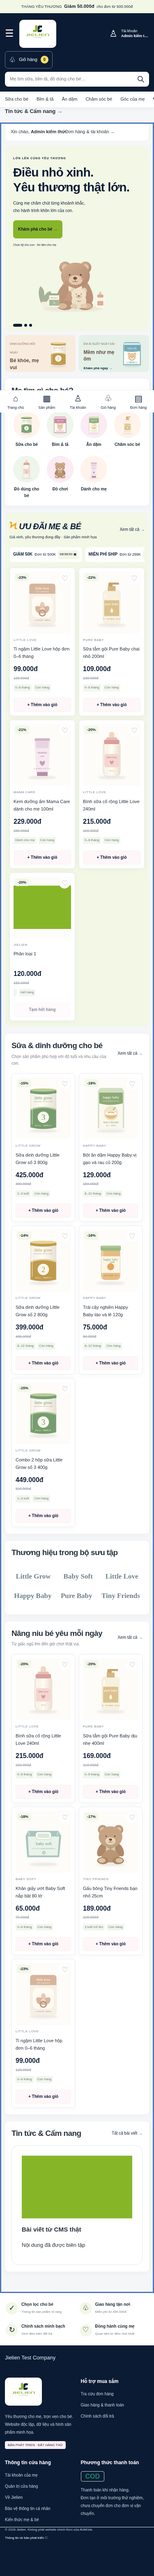
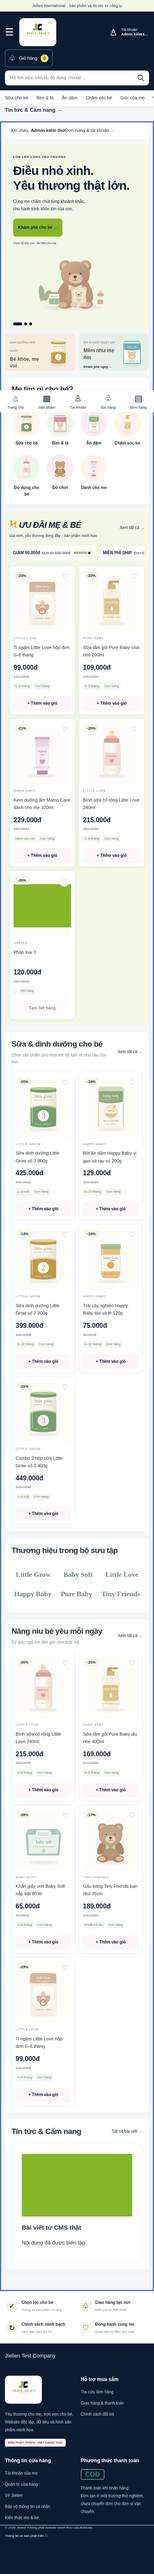
fix: source storefront promotions from active PostgreSQL coupons

diff --git a/public/app.js b/public/app.js
@@ -194,6 +194,12 @@ function heroMarkup() {
   const h = heroes[heroIndex];
   return `<div class="hero" style="background:${h.background}"><div class="hero-content"><div class="eyebrow">${h.eyebrow}</div><h1>${h.title}</h1><p>${h.text}</p><a href="${escape(h.link)}" data-link class="primary">Khám phá cho bé →</a><div class="hero-note">Chọn kỹ cho con · An tâm cho mẹ</div></div><div class="hero-art"><img src="${h.image}" alt="Minh họa sản phẩm và thế giới của bé"></div><div class="banner-controls" aria-label="Chọn banner">${heroes.map((_, i) => `<button class="${i === heroIndex ? "active" : ""}" data-hero="${i}" aria-label="Banner ${i + 1}" aria-pressed="${i === heroIndex}"></button>`).join("")}</div></div>`;
 }
+function couponMarkup() {
+  const coupons = siteData.coupons || [];
+  return coupons.length
+    ? `<div class="coupon-strip">${coupons.map((c) => `<div class="coupon"><b>${c.discount_type === "shipping" ? "MIỄN PHÍ SHIP" : c.discount_type === "percentage" ? "GIẢM " + c.discount_value + "%" : "GIẢM " + money(Math.min(c.discount_value, c.maximum_discount ?? c.discount_value))}</b><span>${c.minimum_order ? "Đơn từ " + money(c.minimum_order) : "Theo điều kiện máy chủ"}</span><button data-copy="${escape(c.code)}">${escape(c.code)} ▣</button></div>`).join("")}</div>`
+    : "";
+}
 function home() {
   document.title = "Jielien International — Sản phẩm & Tin tức";
   const sale = [...products]
@@ -216,7 +222,7 @@ function home() {
       )
       .join("")}</div>
     <section class="panel"><div class="section-heading"><div><h2>Mẹ tìm gì cho bé?</h2><p>Đủ đầy những điều bé cần, từ những ngày đầu tiên.</p></div></div><div class="category-tiles">${categories.map(([name, img]) => `<a class="category-tile" href="${escape(href({ category: name }))}" data-link><span><img src="/assets/${img}.svg" alt=""></span>${name}</a>`).join("")}</div></section>
-    <section class="flash-sale"><div class="section-heading"><div><h2><span>ϟ</span> Ưu đãi mẹ & bé</h2><div class="sale-note">Giá xinh, yêu thương đong đầy · Sản phẩm minh họa</div></div><a href="/san-pham?sort=discount" data-link>Xem tất cả →</a></div><div class="coupon-strip"><div class="coupon"><b>GIẢM 50K</b><span>Đơn từ 500K</span><button data-copy="MEBE50">MEBE50 ▣</button></div><div class="coupon"><b>MIỄN PHÍ SHIP</b><span>Đơn từ 299K</span><button data-copy="FREESHIP">FREESHIP ▣</button></div></div>${productGrid(sale)}</section>
+    <section class="flash-sale"><div class="section-heading"><div><h2><span>ϟ</span> Ưu đãi mẹ & bé</h2><div class="sale-note">Giá xinh, yêu thương đong đầy · Sản phẩm minh họa</div></div><a href="/san-pham?sort=discount" data-link>Xem tất cả →</a></div>${couponMarkup()}${productGrid(sale)}</section>
     ${section("Sữa & dinh dưỡng cho bé", "Chọn sản phẩm phù hợp với độ tuổi và nhu cầu của con.", products.filter((p) => p.category === "Sữa cho bé" || p.category === "Ăn dặm").slice(0, 5), href({ category: "Sữa cho bé" }))}
     <section class="panel"><div class="section-heading"><h2>Thương hiệu trong bộ sưu tập</h2></div><div class="brand-row">${[
       ...new Set(products.map((p) => p.brand)),
@@ -303,7 +309,7 @@ function details(slug) {
   const variants = products.filter(
     (item) => item.productId === p.productId && item.id !== p.id,
   );
-  return `${breadcrumbs([[p.category, href({ category: p.category })], [p.name]])}<section class="panel detail-top"><div><div class="gallery-main"><span class="product-discount">-${Math.round((1 - p.price / p.oldPrice) * 100)}%</span><img id="detail-image" src="${escape(p.image)}" alt="${escape(p.name)} — hình sản phẩm minh họa"></div><div class="gallery-thumbs">${(p.gallery?.length ? p.gallery : [{ url: p.image, alt: p.name }]).map((m, i) => `<button data-gallery="${escape(m.url)}" data-alt="${escape(m.alt || p.name)}" aria-label="Ảnh sản phẩm ${i + 1}"><img src="${escape(m.url)}" alt="${escape(m.alt || p.name)}"></button>`).join("")}</div><p class="detail-label">Kiểm tra quy cách và thông tin sản phẩm trước khi đặt hàng.</p></div><div class="detail-info"><div class="product-brand">${escape(p.brand)}</div><h1>${escape(p.name)}</h1><div class="detail-meta"><span>Mã SKU: ${escape(p.sku || String(p.id))}</span><span class="in-stock">${p.stock ? `✓ Còn ${p.stock} sản phẩm` : "Tạm hết hàng"}</span></div><div class="detail-pricing"><strong>${money(p.price)}</strong><del>${money(p.oldPrice)}</del><small>Giá theo phân loại SKU. Tổng thanh toán được máy chủ xác nhận.</small></div><ul class="features">${p.features.map((f) => `<li>${escape(f)}</li>`).join("")}</ul><div class="variant-label">Lựa chọn đang xem: <b>${escape(p.weight)}</b></div><div class="variants"><a class="active" href="${productLink(p)}" data-link>${escape(p.weight)}</a>${variants.map((v) => `<a href="${productLink(v)}" data-link>${escape(v.name.replace(v.brand, ""))}</a>`).join("")}</div><div class="variant-label">Số lượng</div>${quantityControl(p.id, 1, true)}<div class="buy-row"><button class="secondary" data-detail-add="${p.id}" ${!p.stock ? "disabled" : ""}>+ Thêm vào giỏ</button><button class="primary" data-buy="${p.id}" ${!p.stock ? "disabled" : ""}>Mua ngay →</button></div><div class="delivery-note">♧ Miễn phí giao hàng từ 499.000đ. Phí tiêu chuẩn 25.000đ.</div><div class="delivery-note">♢ Mã <b>MEBE50</b>: giảm 50.000đ cho đơn từ 500.000đ.</div></div></section>
+  return `${breadcrumbs([[p.category, href({ category: p.category })], [p.name]])}<section class="panel detail-top"><div><div class="gallery-main"><span class="product-discount">-${Math.round((1 - p.price / p.oldPrice) * 100)}%</span><img id="detail-image" src="${escape(p.image)}" alt="${escape(p.name)} — hình sản phẩm minh họa"></div><div class="gallery-thumbs">${(p.gallery?.length ? p.gallery : [{ url: p.image, alt: p.name }]).map((m, i) => `<button data-gallery="${escape(m.url)}" data-alt="${escape(m.alt || p.name)}" aria-label="Ảnh sản phẩm ${i + 1}"><img src="${escape(m.url)}" alt="${escape(m.alt || p.name)}"></button>`).join("")}</div><p class="detail-label">Kiểm tra quy cách và thông tin sản phẩm trước khi đặt hàng.</p></div><div class="detail-info"><div class="product-brand">${escape(p.brand)}</div><h1>${escape(p.name)}</h1><div class="detail-meta"><span>Mã SKU: ${escape(p.sku || String(p.id))}</span><span class="in-stock">${p.stock ? `✓ Còn ${p.stock} sản phẩm` : "Tạm hết hàng"}</span></div><div class="detail-pricing"><strong>${money(p.price)}</strong><del>${money(p.oldPrice)}</del><small>Giá theo phân loại SKU. Tổng thanh toán được máy chủ xác nhận.</small></div><ul class="features">${p.features.map((f) => `<li>${escape(f)}</li>`).join("")}</ul><div class="variant-label">Lựa chọn đang xem: <b>${escape(p.weight)}</b></div><div class="variants"><a class="active" href="${productLink(p)}" data-link>${escape(p.weight)}</a>${variants.map((v) => `<a href="${productLink(v)}" data-link>${escape(v.name.replace(v.brand, ""))}</a>`).join("")}</div><div class="variant-label">Số lượng</div>${quantityControl(p.id, 1, true)}<div class="buy-row"><button class="secondary" data-detail-add="${p.id}" ${!p.stock ? "disabled" : ""}>+ Thêm vào giỏ</button><button class="primary" data-buy="${p.id}" ${!p.stock ? "disabled" : ""}>Mua ngay →</button></div><div class="delivery-note">♧ Miễn phí giao hàng từ 499.000đ. Phí tiêu chuẩn 25.000đ.</div><div class="delivery-note">♢ Ưu đãi được máy chủ kiểm tra khi đặt hàng.</div></div></section>
   <section class="panel"><div class="tabs" role="tablist" aria-label="Thông tin sản phẩm"><button class="active" role="tab" id="tab-description" aria-selected="true" aria-controls="detail-tab-content" data-tab="description">Mô tả sản phẩm</button><button role="tab" id="tab-specs" aria-selected="false" aria-controls="detail-tab-content" data-tab="specs">Thông số</button><button role="tab" id="tab-notes" aria-selected="false" aria-controls="detail-tab-content" data-tab="notes">Lưu ý sử dụng</button></div><div class="tab-content" id="detail-tab-content" role="tabpanel" aria-labelledby="tab-description" data-product="${p.id}">${detailTab(p, "description")}</div></section>
   ${section(
     "Mẹ có thể quan tâm",

diff --git a/public/index.html b/public/index.html
@@ -15,10 +15,7 @@
   </head>
   <body>
     <a class="skip-link" href="#main">Đi đến nội dung</a>
-    <div class="top-promo">
-      THÁNG YÊU THƯƠNG <strong>Giảm 50.000đ</strong> cho đơn từ 500.000đ
-      <span>• Mã: MEBE50</span><a href="/san-pham" data-link>Mua ngay →</a>
-    </div>
+    <div class="top-promo">Jielien International · Sản phẩm và tin tức từ công ty</div>
     <header class="site-header">
       <div class="header-main wrap">
         <button

diff --git a/docs/validation/RESULTS.md b/docs/validation/RESULTS.md
@@ -4,7 +4,7 @@ Ngày 2026-11-05, nhánh feature/jielien-commerce-cms; Linux cloud, Node.js 24.2
 
 | Lệnh / kiểm tra | Kết quả |
 |---|---|
-| npm test | 45 pass, 0 fail / skipped / cancelled |
+| npm test | 46 pass, 0 fail / skipped / cancelled |
 | npm run test:local | 6 pass; mật khẩu/file cũ được giữ, validate IP/port |
 | npm run test:browser | 14 kiểm tra storefront pass |
 | npm run test:management | 11 kiểm tra quản trị pass |
